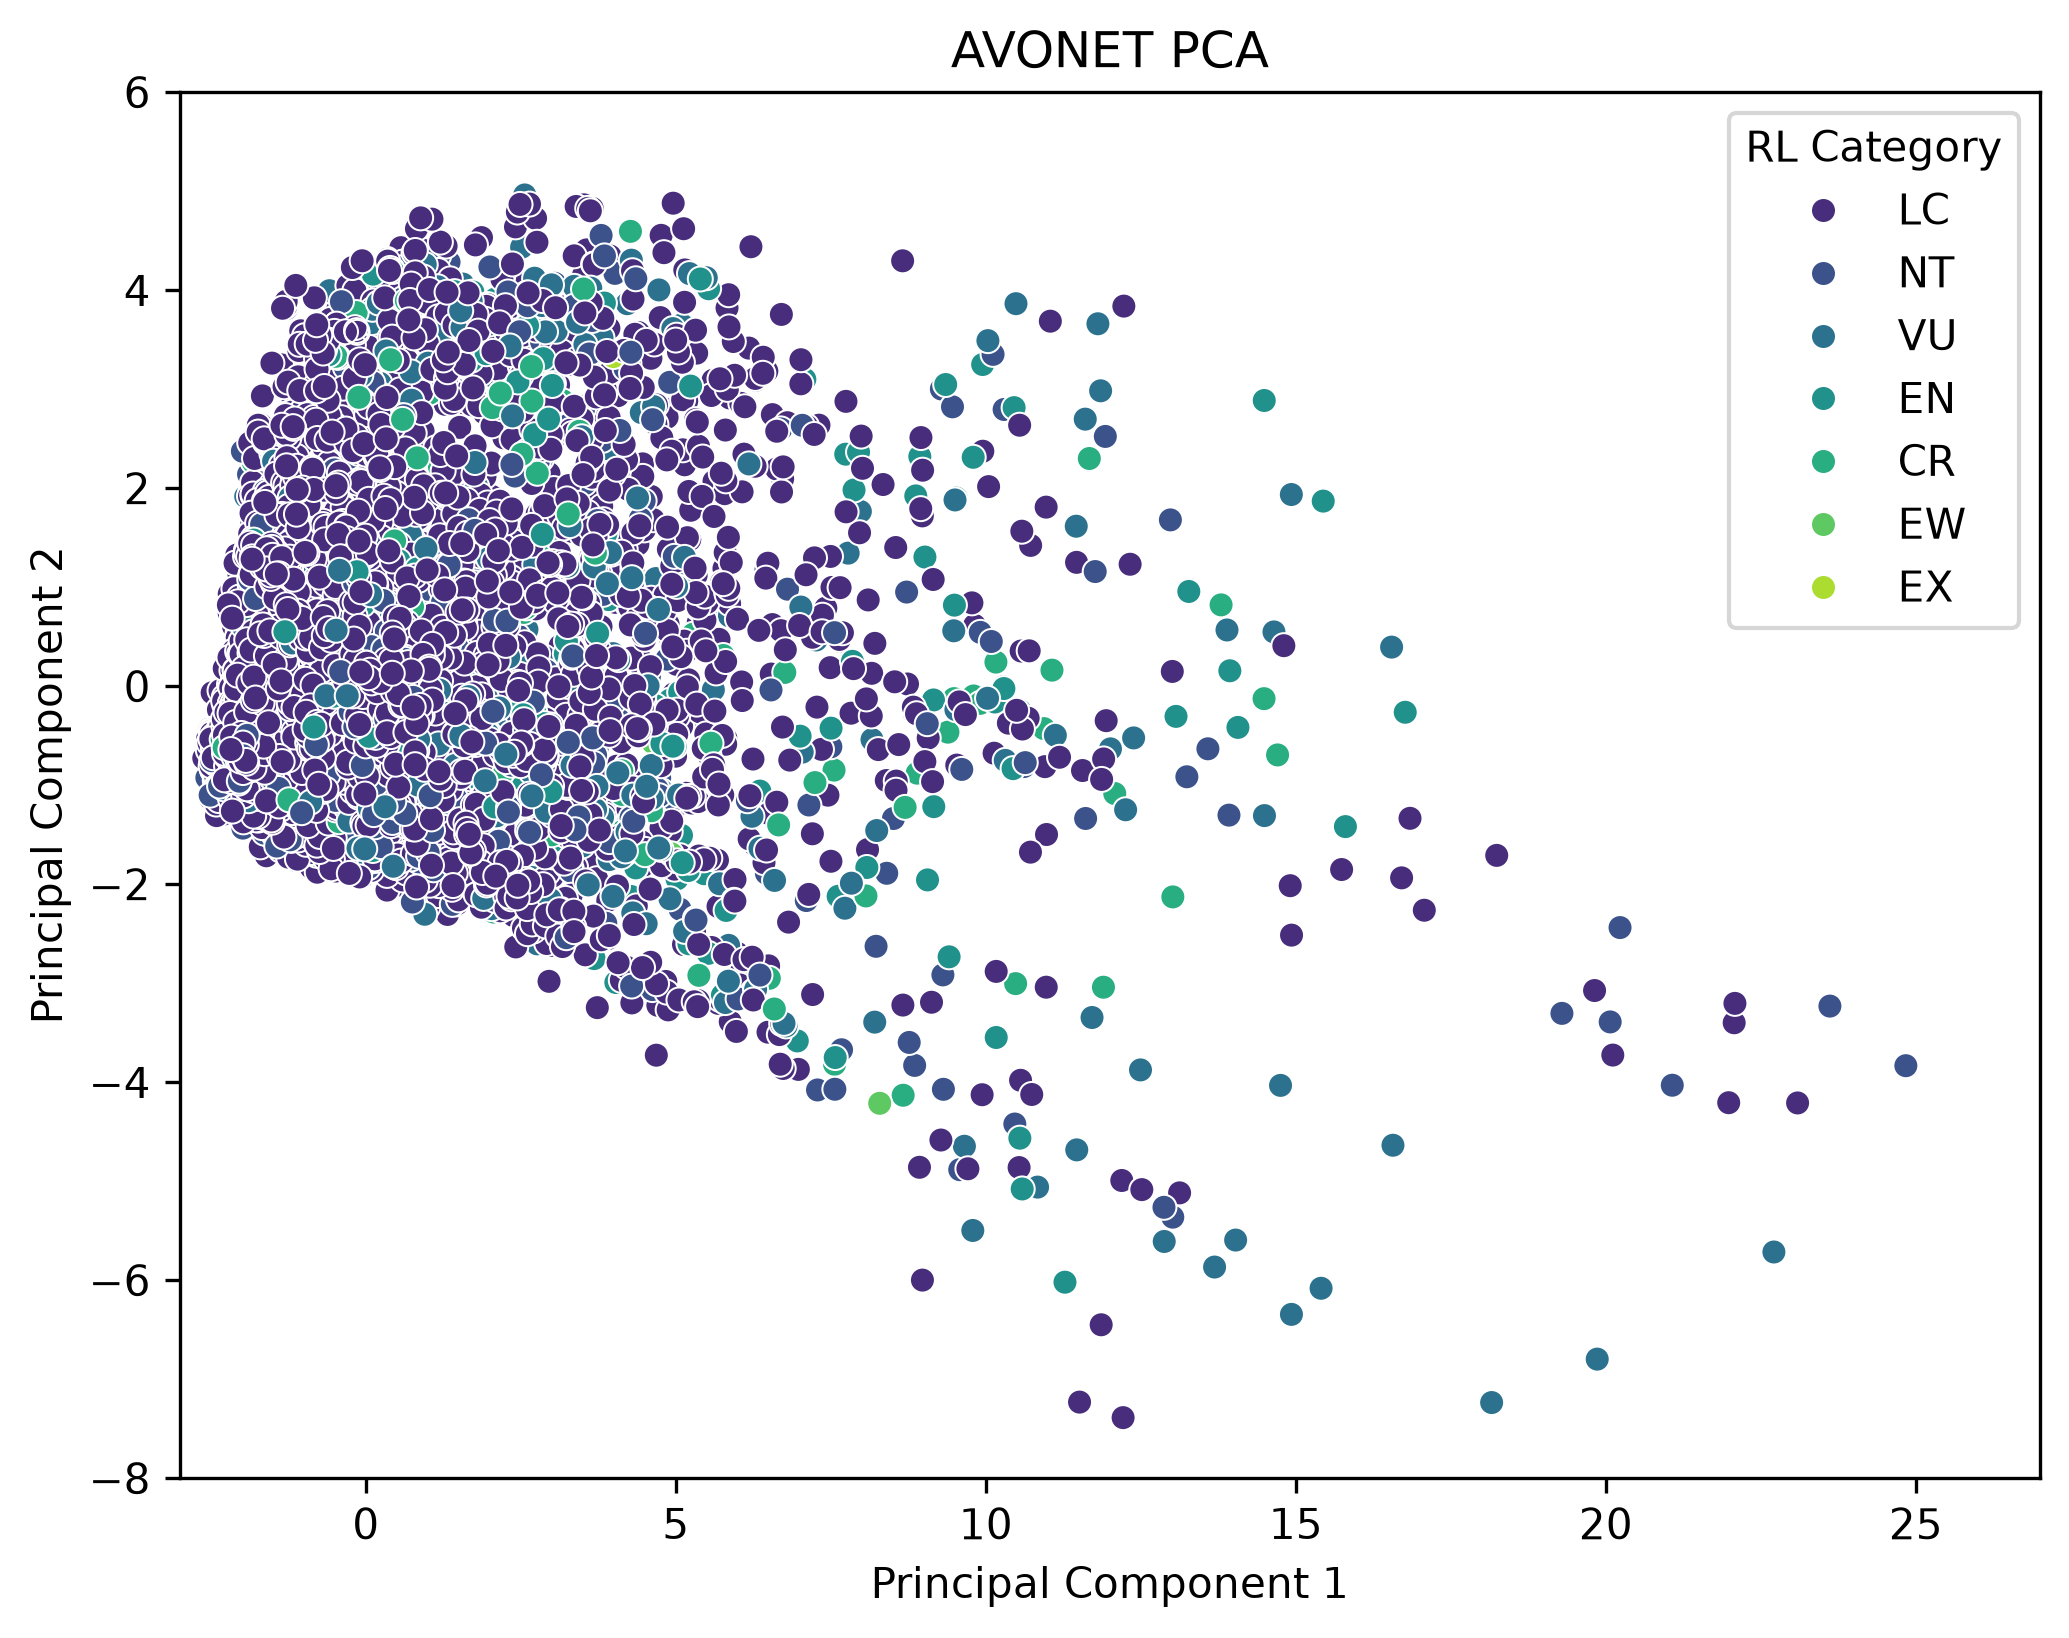
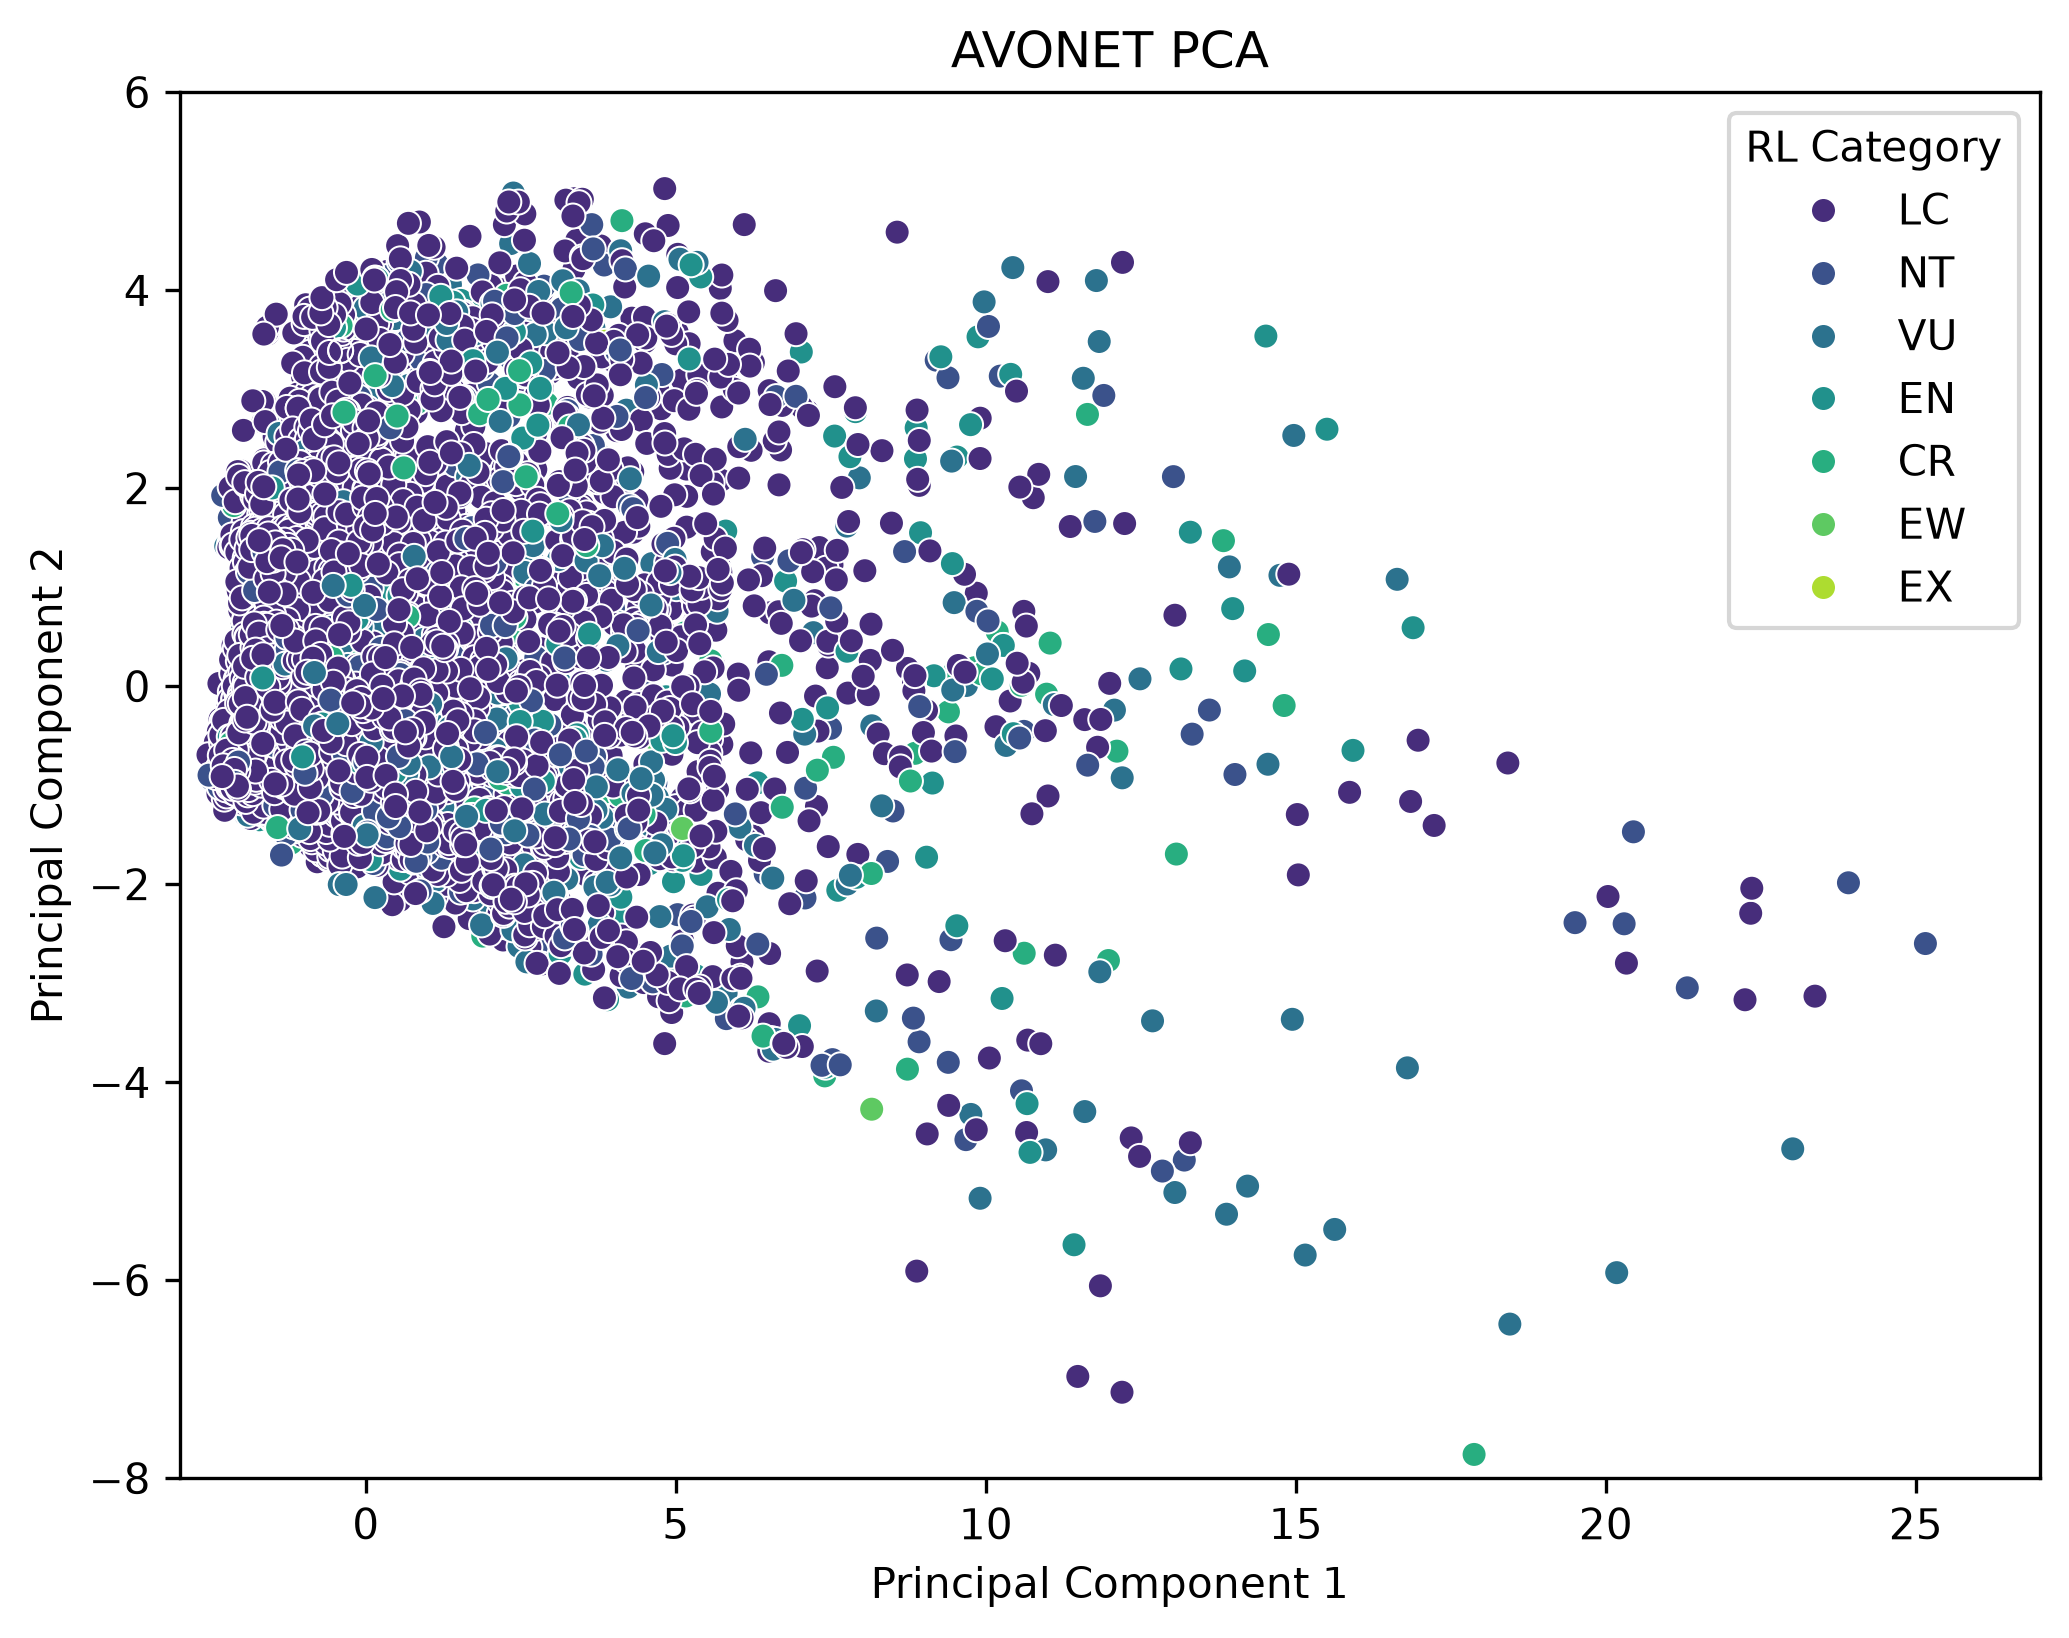
Discluded more irrelevant columns from the PCA

diff --git a/src/AVONET_PCA.py b/src/AVONET_PCA.py
@@ -7,7 +7,7 @@ from sklearn.preprocessing import StandardScaler
 from sklearn.decomposition import PCA
 
 df_AVONET_IUCN = pd.read_csv("./data/AVONET_IUCN.csv") #Reads in the AVONET_IUCN spreadsheet
-df = df_AVONET_IUCN.drop(columns=["Total.individuals", "Female", "Male", "Unknown", "Max.Latitude", "Min.Latitude", "Centroid.Longitude", "Centroid.Latitude", "Range.Size"]).select_dtypes(include=[np.number]).dropna() #Selects the columns with only numbers and removes the rows with missing values
+df = df_AVONET_IUCN.drop(columns=["Total.individuals", "Complete.measures", "Sequence", "Female", "Male", "Unknown", "Max.Latitude", "Min.Latitude", "Centroid.Longitude", "Centroid.Latitude", "Range.Size"]).select_dtypes(include=[np.number]).dropna() #Selects the columns with only numbers and removes the rows with missing values
 IUCN_categories = df_AVONET_IUCN.loc[df.index, "RL Category"]
 scaler = StandardScaler()
 scaler.fit(df)